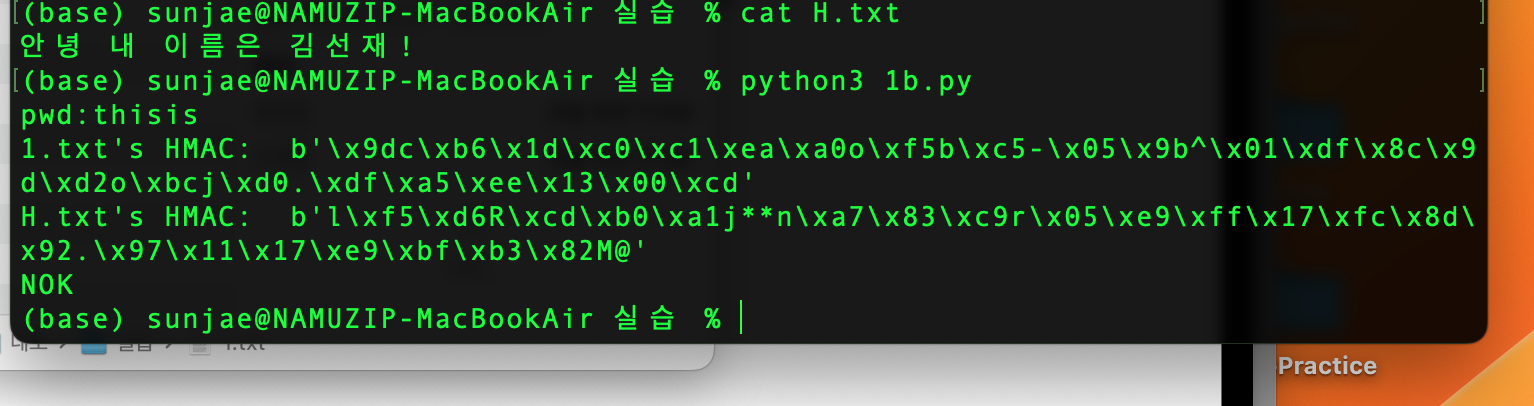
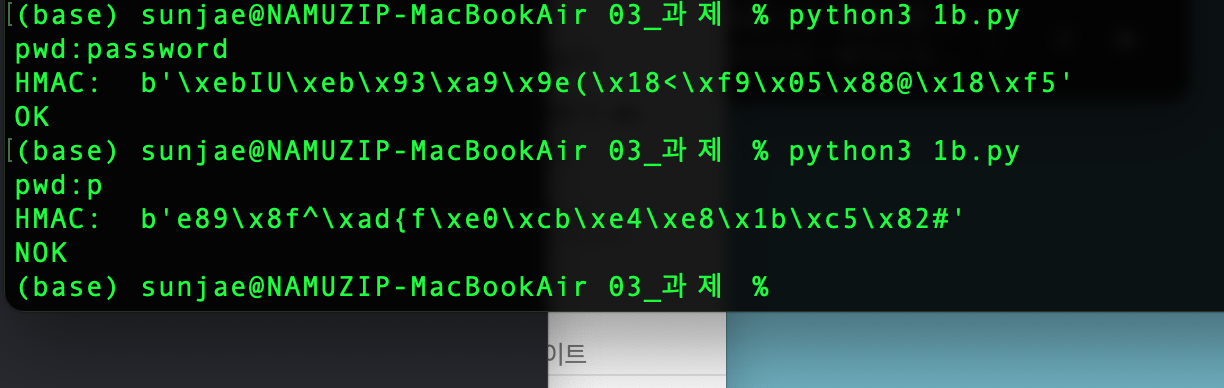
과제 2,3 수정

diff --git a/02_과제/2.py b/02_과제/2.py
@@ -1,34 +1,32 @@
 from Crypto.Cipher import AES
-from Crypto.Hash import SHA256
-import os
-import struct
+import os, random, struct #struct: 파이썬과 c사이 구조체 자료형 간 데이터 변환
 
-def decrypt_file(key, iv, filename):
-    chunk_size = 1024
-    output_filename = os.path.splitext(filename)[0] + '.decrypted'
-    
-    # Open the encrypted file and the initialization vector.
-    # The IV is required for creating the cipher.
-    with open(filename, 'rb') as infile:
-        origsize = struct.unpack('<Q', infile.read(struct.calcsize('Q')))[0]
-        
-        # Create the cipher using the key and the IV.
-        decryptor = AES.new(key, AES.MODE_CBC, iv)
-        
-        # Write the decrypted data to the output file.
-        with open(output_filename, 'wb') as outfile:
-            while True:
-                chunk = infile.read(chunk_size)
-                if len(chunk) == 0:
-                    break
-                outfile.write(decryptor.decrypt(chunk))
-            outfile.truncate(origsize)
+# enc1.txt 파일을 복호화하여 화면에 출력하는 프로그램
+								   
+def decrypt_file(key, filename):
+	chunk_size = 1024  #1024바이트 단위로 읽어옴
+	with open(filename, 'rb') as infile:
+		iv = b'Netsec@Soongsil.'
+		origsize = struct.unpack('I', infile.read(struct.calcsize('I')))[0] 
+# format 문자열에 맞춰 buffer(infile)에서크기에 맞춰 언패킹
 
-# Key, IV, 및 암호화된 파일 이름을 지정합니다.
-key = b'ABCDEF0123456789'  # 16 바이트 키
-iv = b'Netsec@Soongsil.'   # 16 바이트 IV
-encrypted_file = 'enc1.txt'
+ # Create the cipher using the key and the IV. -> 복호화 객체 생성
+		decryptor = AES.new(key, AES.MODE_CBC, iv)
+		remsize = origsize
+
+		while remsize >= chunk_size: # 단위만큼 읽어오면서 끝날때까지 반복
+			chunk = infile.read(chunk_size)
+			remsize -=chunk_size
+			print(decryptor.decrypt(chunk).decode(),end='')
+
+		if remsize > 0: # 1024씩 처리하고 남은 데이터 처리
+			chunk = infile.read(chunk_size)
+			decryptedStr = decryptor.decrypt(chunk).decode()
+			print(decryptedStr[:remsize])
+
+			
+
 
 # 암호 해독을 수행하고 결과를 출력합니다.
-decrypt_file(key, iv, encrypted_file)
+decrypt_file(b'ABCDEF0123456789','enc1.txt')
 

diff --git a/03_과제/1b.py b/03_과제/1b.py
@@ -1,31 +1,28 @@
-import hmac
-import hashlib
+from Crypto.Hash import HMAC
+import os
 
-f1=open('1.txt','r')
+infile=open('H.txt','rb')
 
-password=input("pwd:")
-message=''
+password=input("pwd:").encode()
+chunk_size = 1024
+filesize = os.path.getsize("H.txt")
 
-h1=hmac.new(password.encode('utf-8'),message.encode('utf-8'),hashlib.sha256) 
-message=f1.read(1024)
-h1.update(message.encode('utf-8'))
-mac= h1.digest()
-print("1.txt's HMAC: ",mac)
+textfile = b''
+while True:
+	chunk = infile.read(chunk_size)
+	if len(chunk) == 0:
+		break;
+	textfile += chunk
+mac1 = textfile[filesize-16:] # 마지막hmac 값 (16바이트) 
+textfile = textfile[:filesize-16] #hmac 값을 제외한 본문 내용
 
-
-#receiver
-
-f2=open("H.txt",'r')
-
-
-h2=hmac.new(password.encode('utf-8'),message.encode('utf-8'),hashlib.sha256)
-message=f2.read(1024)
-h2.update (message.encode('utf-8'))
-mac2= h2.digest()
-print("H.txt's HMAC: ",mac2)
+h = HMAC.new(password)
+h.update(textfile) # hash update
+mac2 = h.digest()
+print("HMAC: ",mac2)
 
 
-if mac == mac2 : 
+if mac1 == mac2 : 
 	print ("OK")
 else:
 	print("NOK")

diff --git a/03_과제/1a.py b/03_과제/1a.py
@@ -1,21 +1,26 @@
-import hmac
-import hashlib
+from Crypto.Hash import HMAC
 
-#sender
+# 사용자에게 key 입력 받아 hmac생성 후 출력하기
+# 생성된 hmac값을 기존 1.txt뒤에 붙여서 H.txt로 저장하기
 
-f=open('1.txt','r')
-f2=open('H.txt','w')
+infile=open('1.txt','rb')
+outfile=open('H.txt','wb')
 
-password=input("pwd:")
+password=input("pwd:").encode()
 message=''
+chunk_size=1024
 
-h=hmac.new(password.encode('utf-8'),message.encode('utf-8'),hashlib.sha256) 
-message=f.read(1024)
-f2.write(message)
-h.update(message.encode('utf-8'))
-mac= h.digest()
-f2.write(mac.decode('iso-8859-1'))
-print("HMAC: ",mac)
+h=HMAC.new(password) #해시값 생성
+
+while True:
+	chunk = infile.read(chunk_size)
+	if len(chunk) == 0:
+		break;
+	outfile.write(chunk) # 1.txt파일 내용 복사 
+	h.update(chunk) #해시값 갱신
+hmac = h.digest()
+print("HMAC: ",hmac) #화면에 출력 후, H.txt 파일에 씀
+outfile.write(hmac)
 
 
 

diff --git a/02_과제/3.py b/02_과제/3.py
@@ -1,0 +1,29 @@
+from Crypto.Cipher import AES
+from Crypto.Util import Counter
+import os, random, struct
+
+# CTR모드로 Enc2.txt 파일을 복호화하여 화면에 출력하는 프로그램
+
+def decrypt_file(key, filename):
+	chunk_size = 1024
+
+	with open(filename, 'rb') as infile:
+		ctr = Counter.new(128)
+
+		origsize = struct.unpack('I', infile.read(struct.calcsize('I')))[0]
+		
+		decryptor = AES.new(key, AES.MODE_CTR, counter=ctr)
+		
+		remsize = origsize
+		while remsize >= chunk_size:
+			chunk = infile.read(chunk_size)
+			remsize -= chunk_size
+			print(decryptor.decrypt(chunk).decode(), end='')
+
+		if remsize > 0:
+			chunk = infile.read(chunk_size)
+			decryptedStr = decryptor.decrypt(chunk).decode()
+			print(decryptedStr[:remsize])
+
+decrypt_file(b'ABCDEF0123456789', 'enc2.txt')
+
